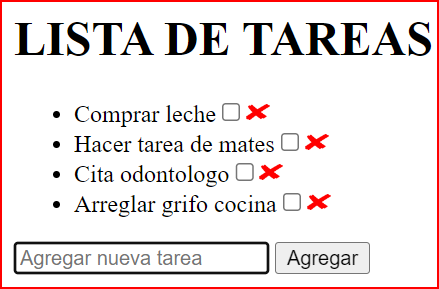
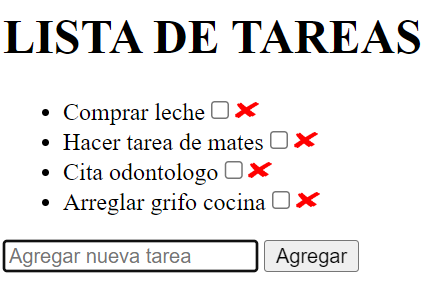
eliminacion bordes lista_tareas, arreglo link

diff --git a/index.html b/index.html
@@ -109,7 +109,7 @@
 										</header>
 									</article>
 									<article class="item">
-										<a href="#" class="image fit"><img src="images/lista_tareas.png" alt="application to create tasks" /></a>
+										<a href="/Creacion_Tareas/lista_tareas.html" class="image fit"><img src="images/lista_tareas.png" alt="application to create tasks" /></a>
 										<header>
 											<h3>Web to create tasks</h3>
 										</header>
